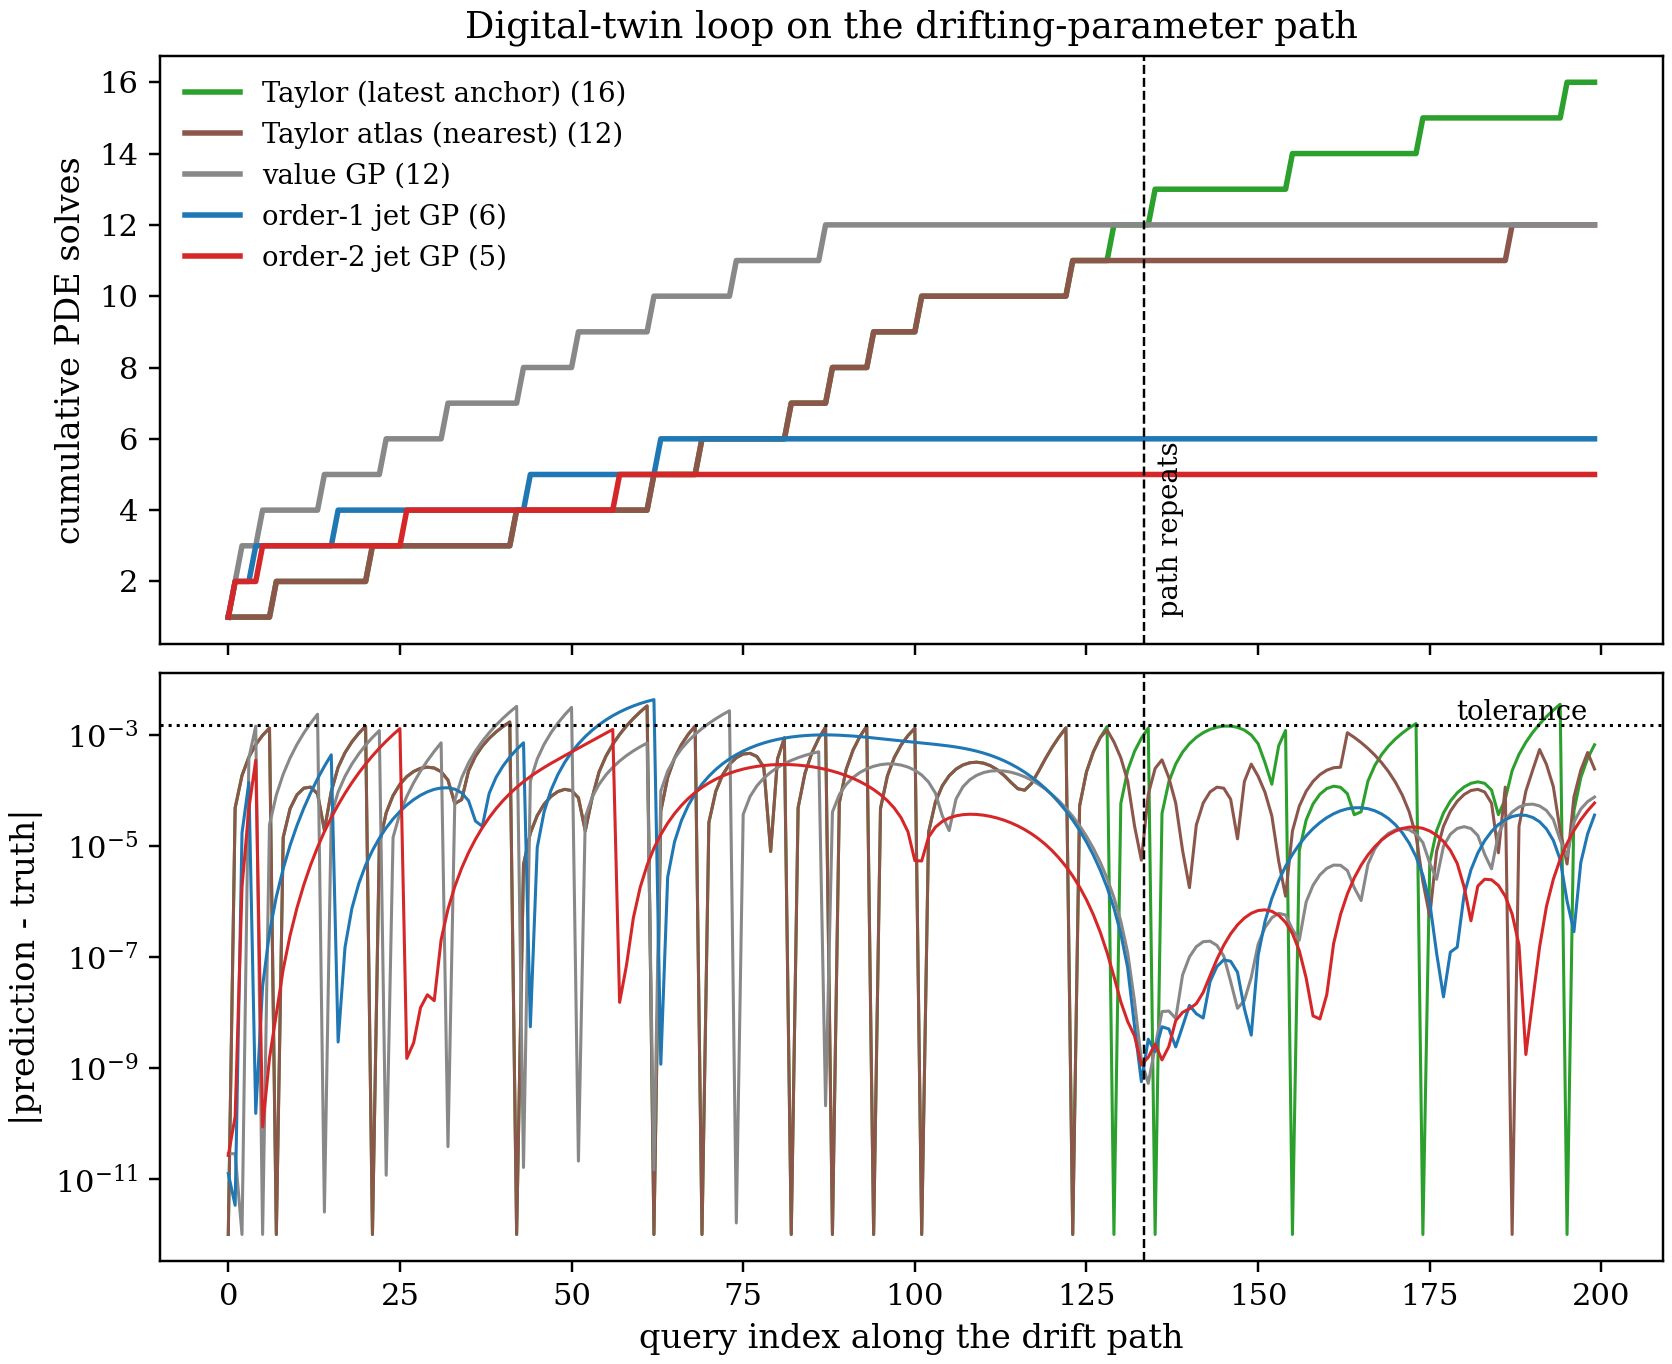
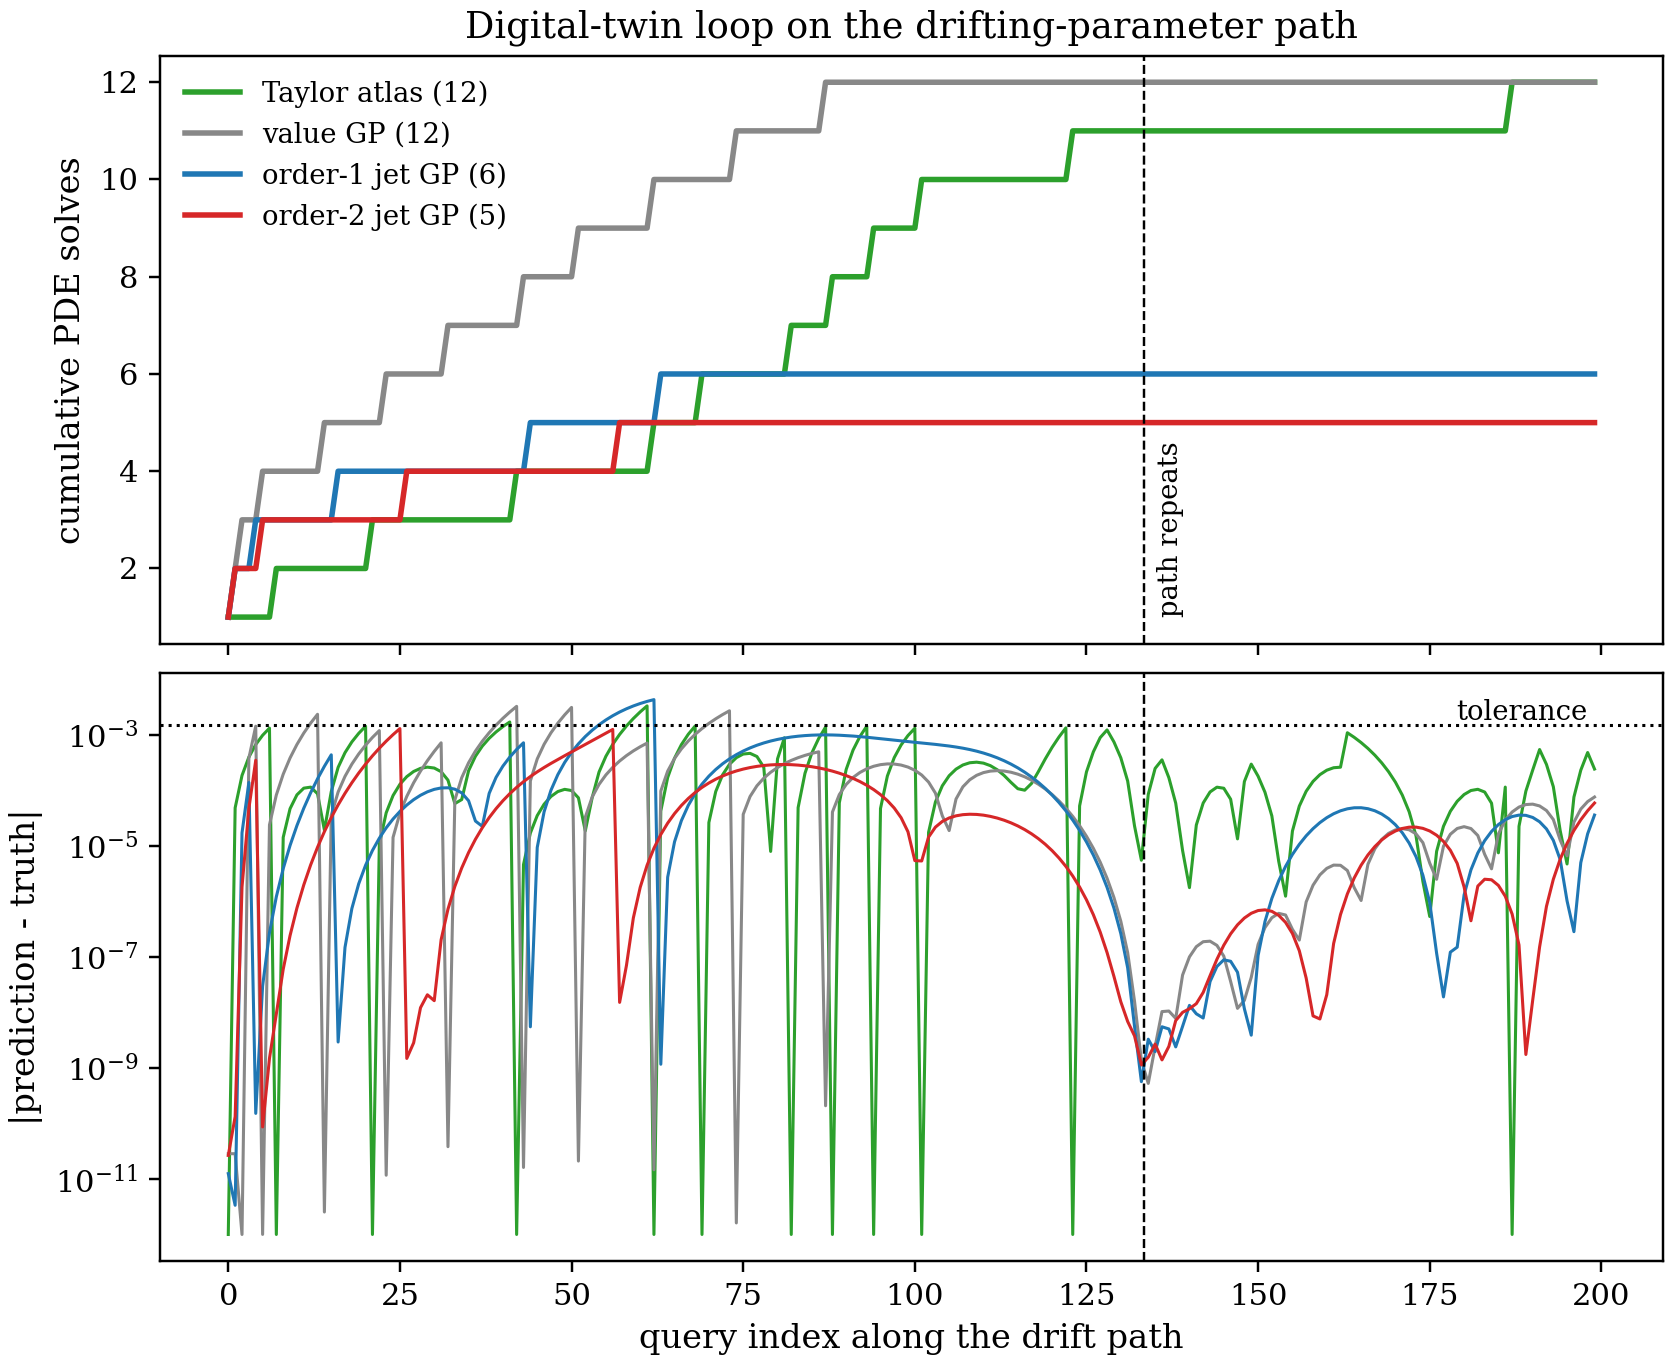
docs: certified twin keeps an anchor atlas; GP page centres on fusion
The certified-reuse twin (and its C++ example on the fork branch, verified
bit-identical on its sweep) now keeps every anchor jet and serves each query
from the nearest one -- a certified twin never re-solves territory it has
already certified. Digital Twin II is reframed accordingly: the previous
page's twin IS the atlas, and what the GP adds is fusion -- all anchors inform
every prediction. The twin-loop experiment drops to four variants (atlas 12,
value GP 12, order-1 jet GP 6, order-2 jet GP 5 solves for 200 queries).

diff --git a/examples/python/digital_twin_gp.py b/examples/python/digital_twin_gp.py
@@ -16,12 +16,11 @@ Halton anchor sequence, errors measured against 400 Monte Carlo truth solves;
 reports the number of anchor solves each needs to reach the error tolerance.
 
 Experiment 2 (twin loop): a drifting-parameter query stream (closed path,
-traversed 1.5x so late queries REVISIT early territory), served by five twins
-that separate two effects -- memory and fusion. GP twins re-solve when the
-posterior std exceeds the tolerance and remember every anchor. Two Taylor
-twins use the identical order-2 gate: one holds only the LATEST anchor (the
-previous docs page's design), one keeps an ATLAS of all anchors and serves
-each query from the nearest -- memory without fusion.
+traversed 1.5x so late queries REVISIT early territory), served by four twins.
+The Taylor-atlas twin is the certified twin of the companion docs page: every
+anchor jet is kept, each query is served by the nearest one under the order-2
+validity gate. The GP twins fuse ALL anchors into one posterior and re-solve
+when its standard deviation at the query exceeds the same tolerance.
 
 Requires jetgp (https://github.com/Samm-Py/jetgp) and its environment; the
 figures committed under figures/digital_twin_gp/ were produced by this script,
@@ -240,30 +239,10 @@ def _taylor_gate_predict(xq, xd, qd, gd, hd, anchor):
     return pred, abs(second)
 
 
-def twin_loop_taylor():
-    """Memoryless Taylor twin (the previous page's design): order-1 model from
-    the LATEST anchor only, re-solving when the jet's own order-2 term at the
-    offset exceeds TOL."""
-    xd, qd, gd, hd = drift_jets()
-    preds = np.empty(len(xd))
-    solves = np.zeros(len(xd), dtype=bool)
-    a = 0
-    solves[0] = True
-    for i in range(len(xd)):
-        pred, second = _taylor_gate_predict(xd[i], xd, qd, gd, hd, a)
-        if second > TOL:
-            a = i
-            solves[i] = True
-            pred, _ = _taylor_gate_predict(xd[i], xd, qd, gd, hd, a)
-        preds[i] = pred
-    return preds, solves
-
-
 def twin_loop_taylor_atlas():
-    """Taylor twin WITH memory: every anchor jet is kept, each query is served
-    by the nearest stored anchor under the same order-2 gate. Memory without
-    probabilistic fusion -- the control separating what memory fixes (revisits)
-    from what the GP's fusion adds (fewer anchors, calibrated uncertainty)."""
+    """The certified Taylor twin of the companion docs page: every anchor jet
+    is kept, each query is served by the nearest stored anchor under the
+    order-2 gate. Jet data without probabilistic fusion."""
     xd, qd, gd, hd = drift_jets()
     preds = np.empty(len(xd))
     solves = np.zeros(len(xd), dtype=bool)
@@ -290,8 +269,7 @@ STYLE = {
     "order-1 jet GP": dict(color="#1f77b4", marker="s"),
     "order-2 jet GP": dict(color="#d62728", marker="^"),
     "nearest-anchor Taylor": dict(color="#2ca02c", marker="d"),
-    "Taylor (latest anchor)": dict(color="#2ca02c", marker="d"),
-    "Taylor atlas (nearest)": dict(color="#8c564b", marker="v"),
+    "Taylor atlas": dict(color="#2ca02c", marker="d"),
 }
 
 
@@ -352,8 +330,7 @@ def main():
 
     print("\n=== experiment 2: twin loop on the drift path ===")
     runs = {}
-    runs["Taylor (latest anchor)"] = twin_loop_taylor()
-    runs["Taylor atlas (nearest)"] = twin_loop_taylor_atlas()
+    runs["Taylor atlas"] = twin_loop_taylor_atlas()
     for key, order in [("value GP", 0), ("order-1 jet GP", 1),
                        ("order-2 jet GP", 2)]:
         runs[key] = twin_loop_gp(order)

diff --git a/docs/numerical_examples/digital_twin_gp.rst b/docs/numerical_examples/digital_twin_gp.rst
@@ -1,16 +1,16 @@
 Digital Twin II: A Gaussian-Process Twin From Jets
 ==================================================
 
-The :doc:`digital_twin` page has a deliberate weakness: its Taylor anchor is
-**memoryless**. Every re-solve discards all previous anchors, the surrogate
-only ever extrapolates from the *latest* one, and when the drifting parameter
-wanders back through territory it has already visited, the twin re-solves
-anyway. This page replaces the single-anchor Taylor surrogate with a
-**derivative-enhanced Gaussian process** trained on the jets themselves, using
-`JetGP <https://github.com/Samm-Py/jetgp>`_ (`documentation
-<https://samm-py.github.io/jetgp/>`_) -- and works in all **three** parameters
-at once: the GP is a global surrogate of the sensor QoI over the
-``(alpha, A, sigma)`` box.
+The :doc:`digital_twin` twin serves each query from the *nearest* certified
+anchor in its atlas -- every prediction comes from one jet at a time. This
+page takes the same jets one step further: **fuse all anchors into a single
+global surrogate** -- a derivative-enhanced Gaussian process, using `JetGP
+<https://github.com/Samm-Py/jetgp>`_ (`documentation
+<https://samm-py.github.io/jetgp/>`_) -- over all **three** parameters at
+once, so every anchor ever solved informs every prediction, the posterior
+interpolates *between* anchors instead of expanding around one, and its
+standard deviation supplies the reuse gate. The payoff is measured in the only
+units that matter: PDE solves.
 
 Jets Are Training Data
 ----------------------
@@ -93,27 +93,22 @@ solves. Three structural readings from the curves:
   under the 8x anchor-count reduction (16 -> 2), and each anchor's jet is
   computed once and reused forever.
 
-The Twin Loop, With Memory
---------------------------
+The Twin Loop
+-------------
 
 The operational scenario from :doc:`digital_twin`, now in 3-D: all three
 parameters drift along a closed path through the box, traversed 1.5 times over
-200 updates -- so the last third of the queries **revisits** parameter
-territory from the first traversal. Five twins serve the identical query
-stream, chosen to separate two distinct effects -- *memory* and *fusion*:
+200 updates -- so the last third of the queries returns to parameter territory
+from the first traversal. Four twins serve the identical query stream:
 
-* **Taylor (latest anchor)** -- the previous page's design: re-solve when the
-  jet's own second-order term at the offset exceeds the tolerance; hold only
-  the newest anchor.
-* **Taylor atlas (nearest)** -- the same gate, but every anchor jet is kept
-  and each query is served by the nearest one: **memory without fusion**.
-* **value / order-1 / order-2 GP twins** -- re-solve when the posterior
-  standard deviation at the query exceeds the same tolerance; every anchor is
-  training data: memory *and* fusion, at three levels of information per
-  solve.
+* **Taylor atlas** -- the previous page's twin: every anchor jet is kept, each
+  query is served by the nearest one under the order-2 validity gate.
+* **value / order-1 / order-2 GP twins** -- every anchor is training data for
+  one global posterior; re-solve when its standard deviation at the query
+  exceeds the same tolerance. Three levels of information per solve.
 
 .. image:: ../_static/numerical_examples/gp_twin_loop.png
-   :alt: cumulative solves and error traces for the five twins along the drift path
+   :alt: cumulative solves and error traces for the four twins along the drift path
    :width: 100%
    :align: center
 
@@ -125,11 +120,7 @@ stream, chosen to separate two distinct effects -- *memory* and *fusion*:
      - Solves
      - Max abs. error
      - Mean abs. error
-   * - Taylor (latest anchor)
-     - 16
-     - 3.5e-3
-     - 4.7e-4
-   * - Taylor atlas (nearest)
+   * - Taylor atlas
      - 12
      - 3.3e-3
      - 3.3e-4
@@ -146,17 +137,15 @@ stream, chosen to separate two distinct effects -- *memory* and *fusion*:
      - **1.3e-3**
      - **1.0e-4**
 
-The top panel now reads as a controlled experiment. After the path repeats
-(dashed line), the latest-anchor Taylor keeps paying (12 -> 16) because it
-forgets; giving the same machinery *memory* -- the atlas -- removes almost all
-of that revisit cost (12 solves, nearly flat after the repeat). That is
-memory's contribution, and it needs no GP at all. What the GP adds on top is
-**fusion**: all anchors inform *every* prediction, not just the nearest, and
-the posterior interpolates *between* anchors instead of extrapolating from
-one -- which is what cuts the anchor count in half again (atlas 12 -> jet GPs
-6 and 5). A neat symmetry falls out of the table: memory without derivatives'
-fusion (the atlas) and fusion without derivatives (the value GP) tie at 12
-solves; combining jets with fusion is what breaks below it. The order-2 jet
+Returning is cheap for every twin here -- after the path repeats (dashed
+line), all four run essentially flat, since the second traversal is covered by
+anchors from the first. The differences are set earlier, in *new* territory,
+and they isolate fusion cleanly. The Taylor atlas consults one jet at a time,
+so it must plant anchors densely enough that every query is near one: 12
+solves. The value GP fuses globally but each solve carries a single number:
+also 12. Fusing the *jets* is what breaks below -- all ten derivatives of
+every anchor shape the posterior everywhere, so far fewer anchors make the
+whole path confident: 6 solves at order 1, **5 at order 2**. The order-2 jet
 twin serves 200 updates with 5 solves and is the only variant whose worst-case
 error stays essentially at the tolerance.
 
@@ -165,11 +154,11 @@ One honest caveat, visible in the bottom panel: the GP gate is
 occasional excursions slightly above the tolerance (all twins show a few,
 worst case ~2.8x for the order-1 GP); a stricter ``k * std`` gate buys margin
 at the cost of a few more solves. This is the structural trade against
-:doc:`digital_twin`: the validity gate certifies a hard truncation bound but
-remembers one anchor; the GP gate is calibrated-statistical but fuses
-everything it has ever solved. Which to prefer is an application decision --
-and since both consume the same jets, switching between them (or nesting them)
-requires no new PDE machinery.
+:doc:`digital_twin`: the validity gate certifies a hard truncation bound,
+anchor by anchor; the GP gate is calibrated-statistical, but fusion is what
+lets it cover the same path with fewer anchors. Which to prefer is an
+application decision -- and since both consume the same jets, switching
+between them (or nesting them) requires no new PDE machinery.
 
 Reproducing It
 --------------

diff --git a/docs/numerical_examples/digital_twin.rst b/docs/numerical_examples/digital_twin.rst
@@ -19,24 +19,26 @@ temperature at a fixed sensor location. Re-solving the PDE for every update is
 the honest but expensive answer; reusing an old solve blindly is cheap but
 uncertified.
 
-The adaptive strategy holds an **anchor jet** -- one solve with
-``otinum<3, 2>``, whose first-order coefficient is the surrogate model and
-whose second-order coefficient feeds the truncation-error estimate -- and, at
-each update with the new estimate ``alpha_q``:
+The adaptive strategy keeps an **atlas of anchor jets** -- each anchor is one
+solve with ``otinum<3, 2>``, whose first-order coefficient is the surrogate
+model and whose second-order coefficient feeds the truncation-error
+estimate. A certified twin must never re-solve territory it has already
+certified, so every anchor is kept forever (a jet is ten doubles), each query
+is served by the nearest one, and a new solve happens only when **no** stored
+anchor's trusted region covers the query:
 
 .. code-block:: cpp
 
    namespace val = oti::validity;
 
-   h = {alpha_q - alpha_anchor, 0.0, 0.0};      // offset per seeded variable
-   if (val::is_trusted(qoi_jet, h, tau, /*tau_abs=*/0.0, /*order=*/1)) {
-       // inside the trusted region: evaluate the surrogate -- no solve
-       q = val::evaluate(qoi_jet, h, /*order=*/1);
-   } else {
-       // drifted out: re-solve once at alpha_q, which becomes the new anchor
-       qoi_jet = solve_anchor(alpha_q);
-       q = qoi_jet.real();
+   auto k = nearest_anchor(alpha_q);            // nearest stored anchor jet
+   h = {alpha_q - atlas_alpha[k], 0.0, 0.0};    // offset per seeded variable
+   if (!val::is_trusted(atlas_jet[k], h, tau, /*tau_abs=*/0.0, /*order=*/1)) {
+       // nothing certified covers this query: solve once, KEEP the anchor
+       k = add_anchor(alpha_q);
+       h = {0.0, 0.0, 0.0};
    }
+   q = val::evaluate(atlas_jet[k], h, /*order=*/1);   // no solve on reuse
 
 The trailing argument is the certified model order: the reused prediction is
 the *linear* model, and the jet's order-2 term is what prices its truncation
@@ -81,10 +83,9 @@ of the heat-equation fork. The validity machinery itself -- ``is_trusted``,
 ``evaluate``, ``truncation_error``, ``validity_radius`` -- is part of the
 library: see :doc:`../tutorials/validity`.
 
-This twin holds a single anchor at a time -- a design choice for simplicity,
-not a limitation of the machinery: keeping an *atlas* of every anchor jet and
-gating on the nearest one gives the same certification with memory.
-:doc:`digital_twin_gp` explores that whole design axis with data -- Taylor
-twins with and without memory, and Gaussian-process twins that go one step
-further by *fusing* all anchors into one global surrogate -- and quantifies
-what each derivative order is worth in PDE solves.
+The atlas also makes returning cheap: a query inside *any* stored anchor's
+trusted region costs nothing, no matter how long ago that anchor was solved.
+:doc:`digital_twin_gp` takes the same jets one step further -- fusing all
+anchors into a single global Gaussian-process surrogate over all three
+parameters -- and quantifies what each derivative order is worth in PDE
+solves.